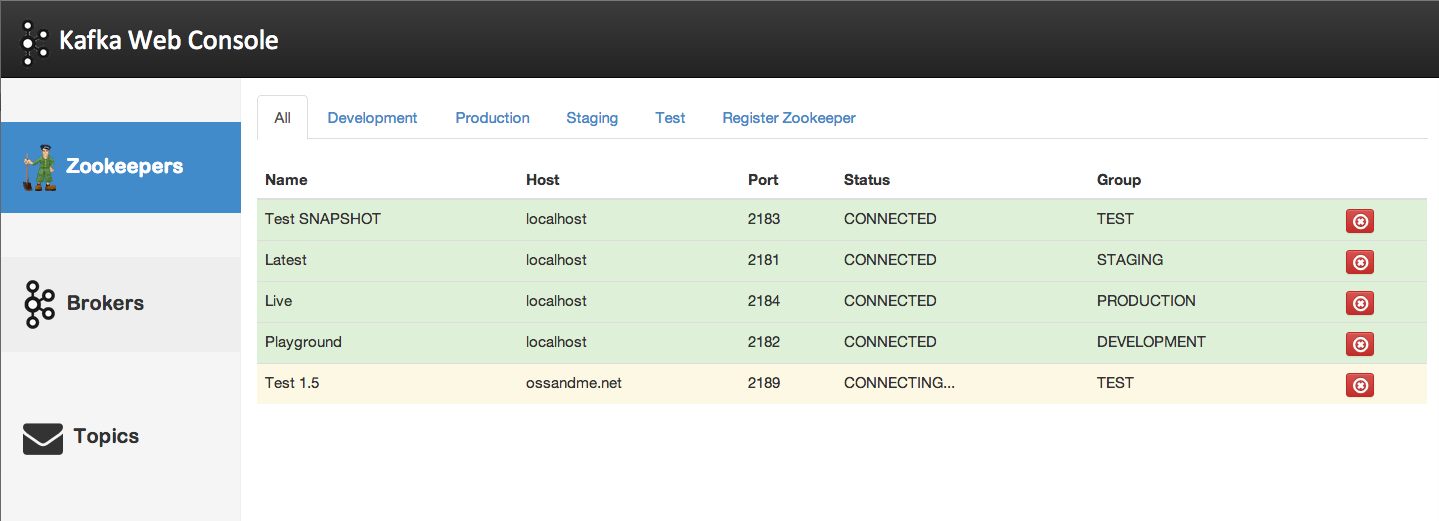
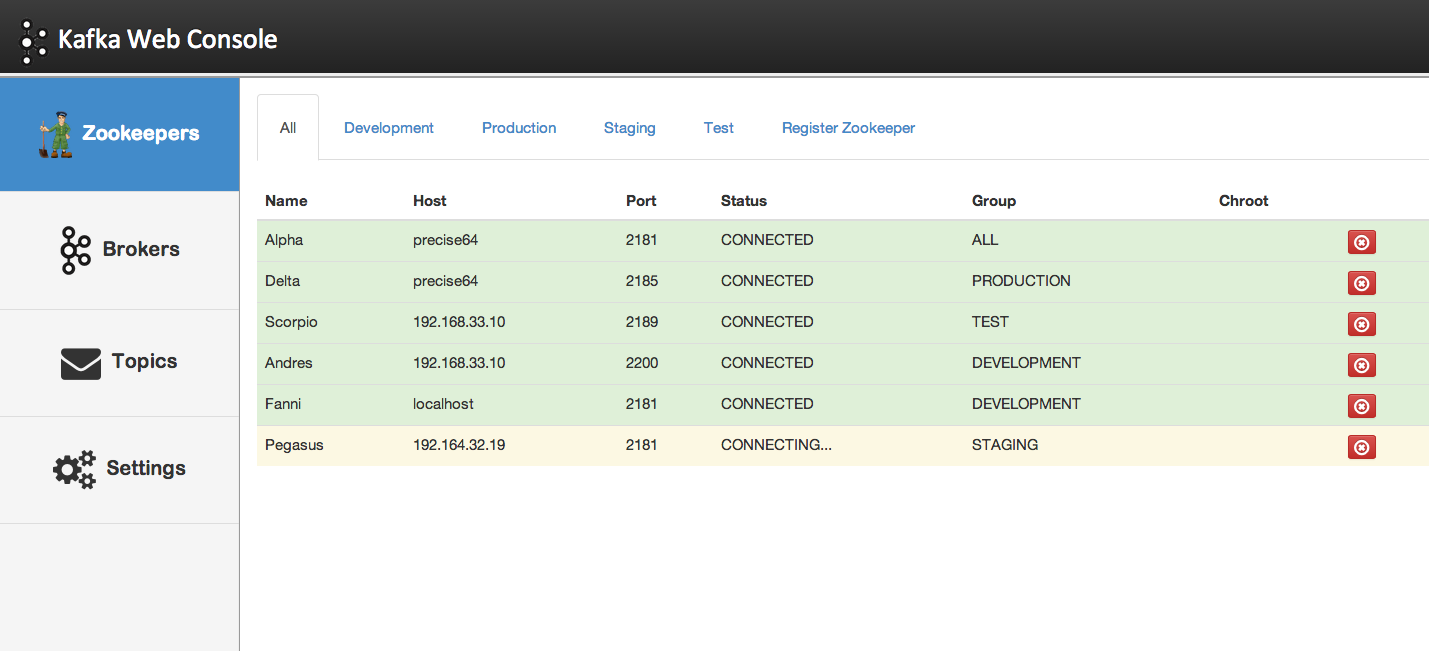
Updated README; added logging; fixed bug where no topics are retrieved if a broker connection exception occurs; polished UI

diff --git a/app/views/index.scala.html b/app/views/index.scala.html
@@ -53,28 +53,28 @@
             <div class="row">
                 <div class="col-sm-3 col-md-2 sidebar">
                     <ul class="nav nav-sidebar">
-                        <li class="section" data-ng-class="{active:isActive('/zookeepers')}">
+                        <li class="section text-center" data-ng-class="{active:isActive('/zookeepers')}">
                             <a href="#zookeepers">
                                 <h4>
                                     <img class="logo" src=@routes.Assets.at("images/zookeeper_small.gif")>  Zookeepers
                                 </h4>
                             </a>
                         </li>
-                        <li class="section" data-ng-class="{active:isActive('/brokers')}">
+                        <li class="section text-center" data-ng-class="{active:isActive('/brokers')}">
                             <a href="#brokers">
                                 <h4>
                                     <img class="logo" src=@routes.Assets.at("images/kafka_logo.png")>  Brokers
                                 </h4>
                             </a>
                         </li>
-                        <li class="section" data-ng-class="{active:isActive('/topics')}">
+                        <li class="section text-center" data-ng-class="{active:isActive('/topics')}">
                             <a href="#topics">
                                 <h4>
                                     <i class="fa fa-envelope fa-2x"></i>  Topics
                                 </h4>
                             </a>
                         </li>
-                        <li class="section" data-ng-class="{active:isActive('/settings')}">
+                        <li class="section text-center" data-ng-class="{active:isActive('/settings')}">
                             <a href="#settings">
                                 <h4>
                                     <i class="fa fa-cogs fa-2x"></i>  Settings

diff --git a/app/assets/stylesheets/custom.less b/app/assets/stylesheets/custom.less
@@ -37,7 +37,7 @@ body {
     background-color: #f5f5f5;
     border-right: 2px ridge #eee;
 
-    a{
+    a {
       border-bottom: 1px solid #dddddd;
     }
   }
@@ -192,7 +192,11 @@ body {
   height: 300px;
 }
 
-.table-hover>tbody>tr:hover>td, .table-hover>tbody>tr:hover>th {
+.table-hover > tbody > tr:hover > td, .table-hover > tbody > tr:hover > th {
   background-color: #0088CC;
-  color:#ffffff;
+  color: #ffffff;
+}
+
+.nav > li > a {
+  padding: 20px;
 }

diff --git a/README.md b/README.md
@@ -8,15 +8,21 @@ Kafka Web Console is a Java web application for monitoring [Apache Kafka](http:/
 
 ***
 
-   - Topics and their partitions
+   - Topics, partitions, log sizes, and partition leaders 
    
 ![topics](/img/topics.png)
 
 ***
 
-   - Consumer groups, individual consumers, and partition offsets for each consumer group
+   - Consumer groups, individual consumers, consumer owners, partition offsets and lag 
     
 ![topic](/img/topic.png)
+
+***
+
+   - Graphs showing consumer offset and lag history as well as consumer/producer message throughput history. 
+    
+![topic](/img/offset-history.png)
 
 ***
 
@@ -32,7 +38,7 @@ Requirements
 ---
 - Play Framework 2.2.x
 - Apache Kafka 0.8.x
-- Zookeeper 3.3.3
+- Zookeeper 3.3.3 or 3.3.4
 
 Deployment
 ----
@@ -40,14 +46,17 @@ Consult Play!'s documentation for [deployment options and instructions](http://w
 
 Getting Started
 ---
-1. Kafka Web Console requires a relational database. Consult Play!'s documentation to [specify the database to be used by the console](http://www.playframework.com/documentation/2.2.x/ScalaDatabase). The following databases are supported:
-   - H2
+1. Kafka Web Console requires a relational database. By default, the server connects to an embedded H2 database and no database installation or configuration is needed. Consult Play!'s documentation to [specify a database for the console](http://www.playframework.com/documentation/2.2.x/ScalaDatabase). The following databases are supported:
+   - H2 (default)
    - PostgreSql
    - Oracle
    - DB2
    - MySQL
    - Apache Derby
-   - Microsoft SQL Server<br/><br/>
+   - Microsoft SQL Server
+   
+Changing the database might necessitate making minor changes to the DDL found in */conf/evolutions/default* to accommodate the new database.<br/><br/>   
+   
 2. Before you can monitor a broker, you need to register the Zookeeper server associated with it:
 
 ![register zookeeper](/img/register-zookeeper.png)
